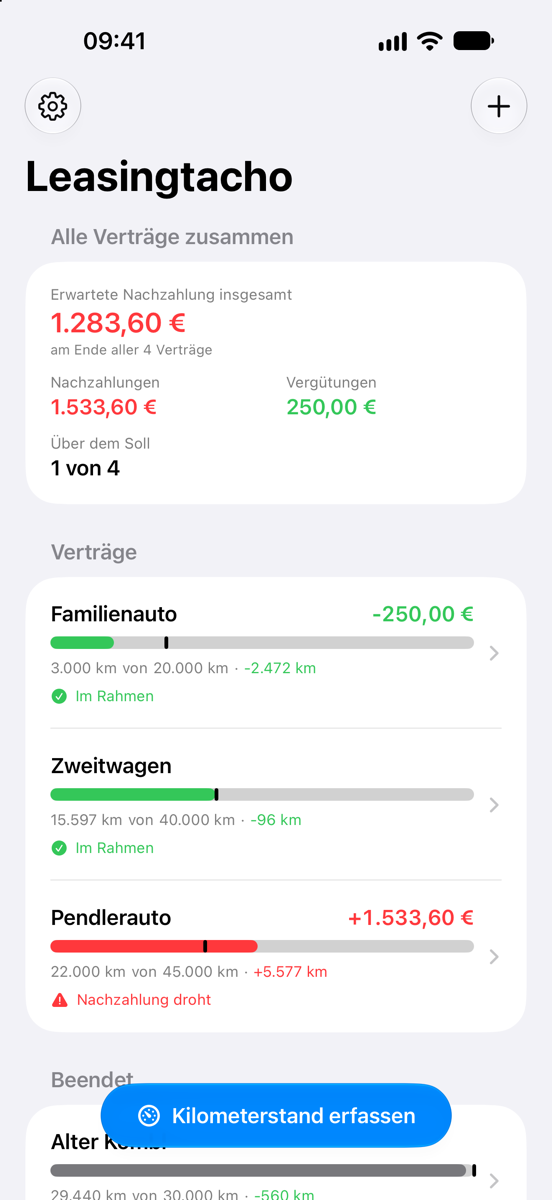
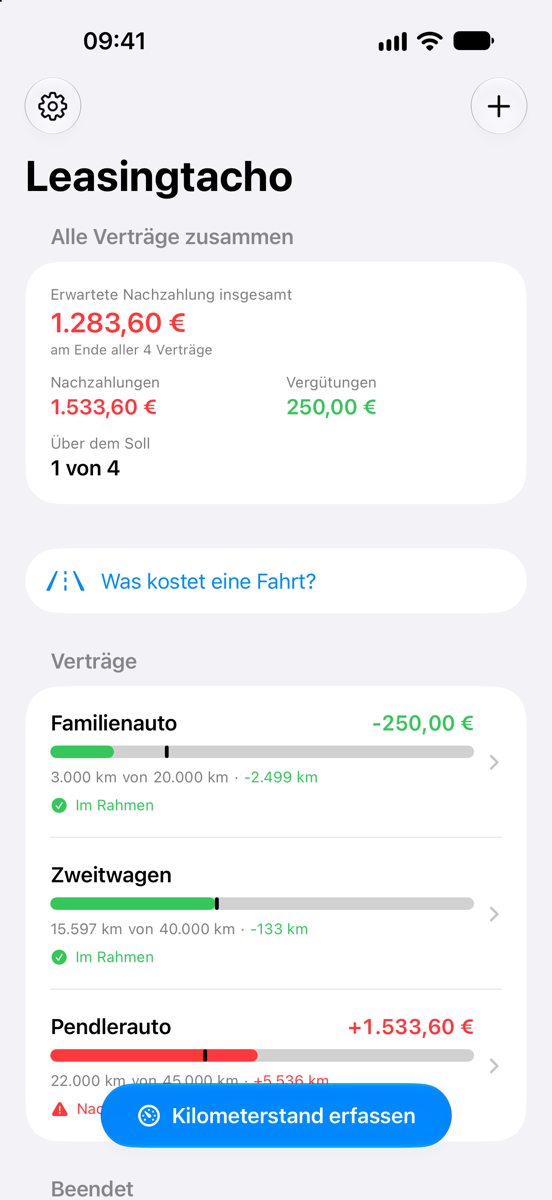
Version 1.1: Was kostet eine Fahrt?, Widgets, Monatsbudget

Changed region(s): [[0.0924, 0.4317, 0.8623, 1.0]]

diff --git a/index.html b/index.html
@@ -87,16 +87,24 @@
         <figcaption><strong>Alle Verträge auf einen Blick</strong> Mit der erwarteten Nachzahlung oder Vergütung</figcaption>
       </figure>
       <figure>
-        <img src="bilder/03-Hochrechnung.png" width="552" height="1200" loading="lazy" decoding="async" alt="Hochrechnung eines Vertrags: angenommene Kilometer je Tag, Laufleistung am Vertragsende, Abweichung und voraussichtliche Nachzahlung mit Rechenweg." />
+        <img src="bilder/03-Hochrechnung.png" width="552" height="1200" loading="lazy" decoding="async" alt="Hochrechnung eines Vertrags: angenommene Kilometer je Tag, Laufleistung am Vertragsende, Abweichung und voraussichtliche Nachzahlung mit Rechenweg, darunter der Knopf „Was kostet eine Fahrt?“." />
         <figcaption><strong>Hochrechnung auf das Vertragsende</strong> In Euro, nach den Regeln deines Vertrags</figcaption>
+      </figure>
+      <figure>
+        <img src="bilder/07-Fahrtkosten.png" width="552" height="1200" loading="lazy" decoding="async" alt="Rechner „Was kostet eine Fahrt?“: 1.200 Kilometer hin und zurück. Mit dem Zweitwagen kostet die Fahrt nichts, weil sie in der Freigrenze bleibt, mit dem Familienauto 43,25 Euro weniger Vergütung, mit dem Pendlerauto 288 Euro mehr Nachzahlung." />
+        <figcaption><strong>Was kostet diese Fahrt?</strong> Und mit welchem Auto sie am günstigsten ist</figcaption>
+      </figure>
+      <figure>
+        <img src="bilder/08-Widget.png" width="552" height="1200" loading="lazy" decoding="async" alt="Home-Bildschirm mit dem Widget von Leasingtacho: Vergütung am Vertragsende, Abweichung vom Soll, das Budget für den Monat und ein Knopf zum Erfassen." />
+        <figcaption><strong>Dein Stand auf einen Blick</strong> Als Widget auf Home- und Sperrbildschirm</figcaption>
       </figure>
       <figure>
         <img src="bilder/06-Erfassen.png" width="552" height="1200" loading="lazy" decoding="async" alt="Formular „Ablesung erfassen“: Datum, eingetippter Kilometerstand, der Knopf „Mit der Kamera ablesen“ und darunter die gefahrenen Kilometer seit der letzten Ablesung." />
         <figcaption><strong>Kilometerstand in Sekunden erfasst</strong> Eintippen, per Kamera oder mit Siri</figcaption>
       </figure>
       <figure>
-        <img src="bilder/02-Vertrag.png" width="552" height="1200" loading="lazy" decoding="async" alt="Detailseite eines Vertrags: gefahrene Kilometer, Soll zum heutigen Tag, Abweichung vom Soll und was bis zum Vertragsende noch frei ist." />
-        <figcaption><strong>Liegst du im Rahmen?</strong> Gefahren und Soll, auf den Tag genau</figcaption>
+        <img src="bilder/02-Vertrag.png" width="552" height="1200" loading="lazy" decoding="async" alt="Detailseite eines Vertrags: gefahrene Kilometer, Soll zum heutigen Tag, Abweichung vom Soll und darunter das Budget für den laufenden Monat mit dem, was davon schon gefahren ist." />
+        <figcaption><strong>Liegst du im Rahmen?</strong> Mit Budget für den laufenden Monat</figcaption>
       </figure>
       <figure>
         <img src="bilder/04-Verlauf.png" width="552" height="1200" loading="lazy" decoding="async" alt="Verlaufsdiagramm eines Vertrags mit gefahrenen Kilometern, Soll und Prognose über die Laufzeit, darunter die letzten Ablesungen." />
@@ -130,6 +138,14 @@
           <p>Aus dem Schnitt der letzten Wochen, seit Vertragsbeginn oder aus deiner eigenen Jahresannahme. Dazu die Rechnung für den Fall, dass ab heute kein Kilometer mehr dazukommt.</p>
         </li>
         <li>
+          <h4>Was kostet diese Fahrt?</h4>
+          <p>Gib eine Strecke ein, etwa die Urlaubsfahrt, und sieh, was sie am Vertragsende kostet: mehr Nachzahlung, weniger Vergütung oder gar nichts, solange sie in der Freigrenze bleibt. Bei mehreren Autos zeigt die App, mit welchem die Fahrt am günstigsten ist.</p>
+        </li>
+        <li>
+          <h4>Budget für den Monat</h4>
+          <p>Wie viele Kilometer diesen Monat drin sind, wie viel davon gefahren ist und was noch frei ist – so verteilt, dass du genau bei der vereinbarten Laufleistung landest.</p>
+        </li>
+        <li>
           <h4>Rechnet wie dein Vertrag</h4>
           <p>Sätze für Mehr- und Minderkilometer, Freigrenzen und eine Obergrenze für die Vergütung trägst du so ein, wie sie im Vertrag stehen. Nach dem Vertragsende zeigt die App die Schlussabrechnung.</p>
         </li>
@@ -143,7 +159,7 @@
       <ul class="liste karte">
         <li>
           <h4>Kilometerstand per Kamera</h4>
-          <p>Halte die Kamera auf den Tacho und tippe auf den Kilometerstand – oder wähle ein vorhandenes Foto. Das Bild wird nur auf deinem iPhone ausgewertet.</p>
+          <p>Halte die Kamera auf den Tacho und tippe auf den Kilometerstand – oder wähle ein vorhandenes Foto; die Ablesung fällt dann auf den Tag der Aufnahme. Das Bild wird nur auf deinem iPhone ausgewertet.</p>
         </li>
         <li>
           <h4>Ein Tipp von der Startseite</h4>
@@ -156,6 +172,10 @@
         <li>
           <h4>Erinnerungen</h4>
           <p>An fällige Ablesungen im Abstand, den du wählst, und auf Wunsch vier Wochen vor dem Vertragsende.</p>
+        </li>
+        <li>
+          <h4>Widgets</h4>
+          <p>Dein Stand auf dem Home- und dem Sperrbildschirm, ohne die App zu öffnen. Dazu ein Schalter „Kilometerstand erfassen“ für Kontrollzentrum und Aktionstaste.</p>
         </li>
       </ul>
 
@@ -205,7 +225,7 @@
         </li>
         <li>
           <h3>Ohne Kauf</h3>
-          <p>Deine Verträge und Ablesungen bleiben sichtbar und lassen sich weiter exportieren. Neue Ablesungen und neue Verträge gibt es nur mit der Vollversion.</p>
+          <p>Deine Verträge und Ablesungen bleiben sichtbar und lassen sich weiter exportieren. Neue Ablesungen, neue Verträge und „Was kostet eine Fahrt?“ gibt es nur mit der Vollversion.</p>
         </li>
       </ul>
       <p class="fussnote">Der Preis gilt in Deutschland; in anderen Ländern nennt dir die App vor dem Kauf den dortigen Betrag. Hast du schon gekauft, holst du die Vollversion auf einem anderen Gerät in den Einstellungen der App über „Käufe wiederherstellen“ zurück.</p>
@@ -234,7 +254,7 @@
         <details>
           <summary>Was passiert, wenn die Probezeit abläuft?</summary>
           <div class="antwort">
-            <p>Nichts, was dich Geld kostet. Deine Verträge und Ablesungen bleiben sichtbar, und du kannst sie weiter exportieren. Neue Ablesungen und neue Verträge anlegen kannst du mit der Vollversion, einem einmaligen Kauf in der App für 4,99&#160;€.</p>
+            <p>Nichts, was dich Geld kostet. Deine Verträge und Ablesungen bleiben sichtbar, und du kannst sie weiter exportieren. Neue Ablesungen und neue Verträge anlegen und Fahrten durchrechnen kannst du mit der Vollversion, einem einmaligen Kauf in der App für 4,99&#160;€.</p>
           </div>
         </details>
 

diff --git a/datenschutz.html b/datenschutz.html
@@ -25,7 +25,7 @@
   <div class="spalte">
 
     <h1>Datenschutzerklärung für die App „Leasingtacho“</h1>
-    <p class="stand">Stand: 28.&#160;September 2026</p>
+    <p class="stand">Stand: 30.&#160;September 2026</p>
 
     <h2>Verantwortlicher</h2>
     <address>
@@ -59,6 +59,9 @@
 
     <h2>Erinnerungen</h2>
     <p>Erinnerungen an fällige Ablesungen und an das Vertragsende sind Mitteilungen, die die App auf deinem Gerät plant. Dafür wird nichts an einen Server übertragen.</p>
+
+    <h2>Widgets</h2>
+    <p>Damit die Widgets deinen Stand zeigen können, legt die App eine Kopie deiner Verträge und Ablesungen in einem geschützten Bereich auf deinem Gerät ab, den nur die App und ihre Widgets lesen können. Die Kopie verlässt das Gerät nicht. Ist in der App die Sperre mit Face&#160;ID, Touch&#160;ID oder Gerätecode eingeschaltet, zeigen die Widgets auf dem gesperrten Gerät keine Beträge.</p>
 
     <h2>Siri und Kurzbefehle</h2>
     <p>Nutzt du den Kurzbefehl „Kilometerstand erfassen“ mit Siri, verarbeitet Apple deine Spracheingabe nach seinen eigenen Bestimmungen. Die App erhält nur den erkannten Kilometerstand und den gewählten Vertrag.</p>
